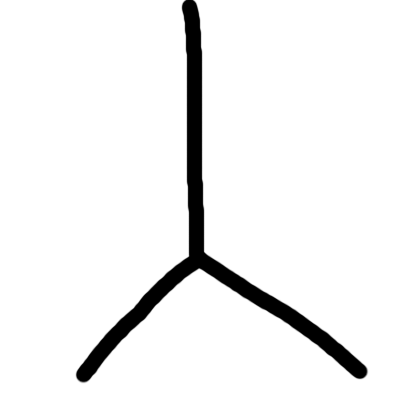
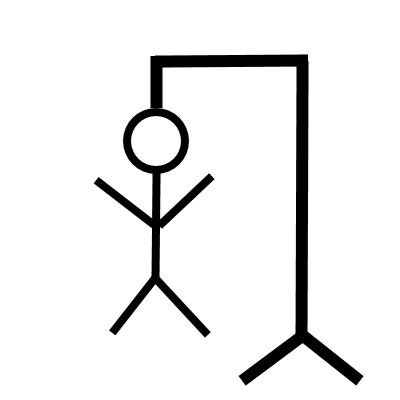
made new pictures and centered text

Changed region(s): [[0.18, 0.0, 0.93, 0.96]]

diff --git a/newindex.html b/newindex.html
@@ -29,11 +29,13 @@
         <img src="picture6.png" alt="" />
       </div>
     </div>
-    <label for="guessinput">Your Guess:</label>
-    <input type="text" maxlength="1" id="guessinput" />
-    <input id="submitbtn" type="submit" value="Submit" />
+    <div class="inputdiv">
+      <label for="guessinput">Your Guess:</label>
+      <input type="text" maxlength="1" id="guessinput" />
+      <input id="submitbtn" type="submit" value="Submit" />
+    </div>
     <div id="answer">Answer</div>
-    <div id="losemessage">Losemessage</div>
+    <div id="losemessage">Guess a letter!</div>
 
     <script src="newmain.js"></script>
   </body>

diff --git a/newmain.js b/newmain.js
@@ -69,7 +69,13 @@ document.getElementById('submitbtn').addEventListener('click', function () {
 
     document
       .getElementById('picturediv')
-      .children.item(imgcounter).style.visibility = 'visible';
+      .children.item(imgcounter).style.display = 'block';
+
+    if (imgcounter > 0) {
+      document
+        .getElementById('picturediv')
+        .children.item(imgcounter - 1).style.display = 'none';
+    }
 
     imgcounter++;
   }

diff --git a/style.css b/style.css
@@ -4,10 +4,31 @@
 #picture4,
 #picture5,
 #picture6 {
-  visibility: hidden;
+  display: none;
 }
 
 #picturediv {
-  display: grid;
-  grid-template-columns: repeat(2, 1fr);
+  min-height: 400px;
+  text-align: center;
+}
+
+.title {
+  text-align: center;
+}
+
+#remaininglives {
+  text-align: center;
+}
+
+.inputdiv {
+  text-align: center;
+}
+
+#answer {
+  text-align: center;
+  margin: 12px 0;
+}
+
+#losemessage {
+  text-align: center;
 }
